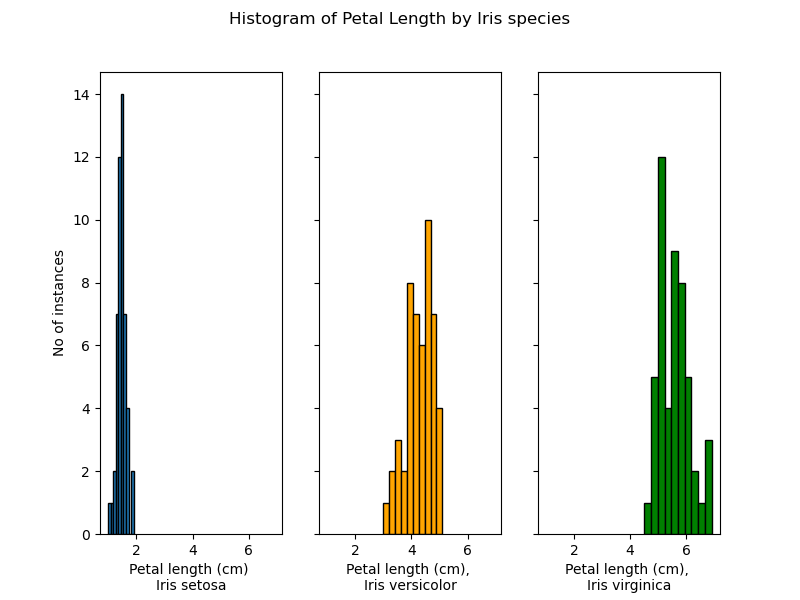
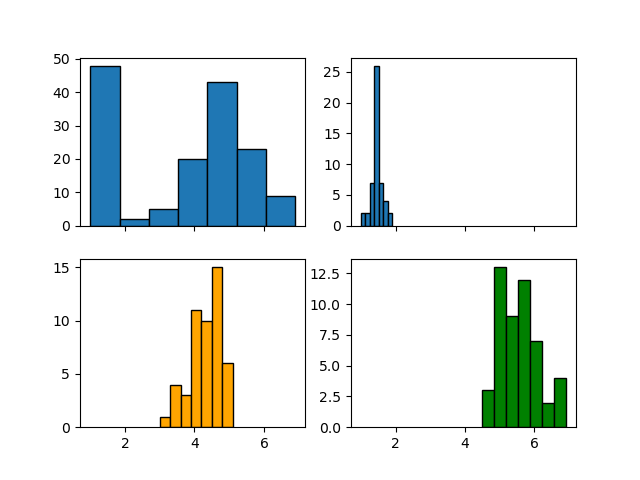
modified the readme, messed with a histogram, some analysis.py improvements

diff --git a/analysis.py b/analysis.py
@@ -9,23 +9,31 @@ iris = pd.read_csv("iris.data", header = None)
 
 # Having a look at the data set, checking that it loaded. 
 print(f'The first five rows of the data set are: \n {iris.head()}')
+print()
 
 # Add column names
 iris.columns = ['sepal_length_cm', 'sepal_width_cm', 'petal_length_cm', 'petal_width_cm', 'species']
 print(f'Checking that the column names are correct: \n {iris.head()}')
+print()
 
 # Summary of the variables and data types in the data set
+print(f'Summary of the variables and the data types in the data set.')
 print(iris.info())
 print()
 
-# Summary statistics of the data set
-print(iris.describe())
+# Looking for missing data, NaN
+print(f'Checking to see if there is any missing data or NaN. \n{iris.isna().sum()}')
 print()
+
+# Summary statistics of the data set
+print(f'Overall summary statistics for the data set. \n{iris.describe()}')
+print()
+
 
 # Summary statistics for each variable by flower species
 
 
-print(iris['species'].unique())
+print(f"The unique names in the species column are: \n {iris['species'].unique()}")
 print()
 
 setosa = iris[iris['species'] == 'Iris-setosa']
@@ -79,17 +87,18 @@ plt.savefig('sepal_width.png')
 
 
 #Histogram of Petal Length
-fig, ax = plt.subplots(1, 3, sharex= True, sharey= True, figsize = (8, 6))
-ax[0].hist(setosa['petal_length_cm'], edgecolor = 'black', alpha = 1.0, bins = 10)
-ax[1].hist(versicolor['petal_length_cm'], label = 'Iris versicolor', color = 'orange', edgecolor = 'black', alpha = 1.0, bins = 10)
-ax[2].hist(virginica['petal_length_cm'], label = 'Iris virginica', color = 'green', edgecolor = 'black', alpha = 1.0, bins = 10)
+fig, ax = plt.subplots(2, 2, sharex= True)
+ax[0,0].hist(iris['petal_length_cm'], edgecolor = 'black', bins = 7)
+ax[0, 1].hist(setosa['petal_length_cm'], edgecolor = 'black', alpha = 1.0, bins = 7)
+ax[1, 0].hist(versicolor['petal_length_cm'], label = 'Iris versicolor', color = 'orange', edgecolor = 'black', alpha = 1.0, bins = 7)
+ax[1, 1].hist(virginica['petal_length_cm'], label = 'Iris virginica', color = 'green', edgecolor = 'black', alpha = 1.0, bins = 7)
 
-ax[0].set_xlabel('Petal length (cm) \nIris setosa')
-ax[1].set_xlabel('Petal length (cm), \nIris versicolor')
-ax[2].set_xlabel('Petal length (cm), \nIris virginica')
-ax[0].set_ylabel('No of instances')
+#ax[0].set_xlabel('Petal length (cm) \nIris setosa')
+#ax[1].set_xlabel('Petal length (cm), \nIris versicolor')
+#ax[2].set_xlabel('Petal length (cm), \nIris virginica')
+#ax[0].set_ylabel('No of instances')
 
-fig.suptitle('Histogram of Petal Length by Iris species')
+#fig.suptitle('Histogram of Petal Length by Iris species')
 
 plt.savefig('petal_length.png')
 
@@ -110,4 +119,4 @@ fig.suptitle('Histogram of Petal Width by Iris species')
 plt.savefig('petal_width.png')
 
 
-plt.hist()
+#plt.hist()

diff --git a/README.md b/README.md
@@ -1,4 +1,4 @@
-# pands-project
+# pands-project 
 
 This is my analysis of the Fisher's Iris data set for the programming and scripting module.
 
@@ -20,32 +20,33 @@ README.md
 
 # Summary of the data set
 
-## History of the Data Set
 In 1928 Edgar Anderson published his paper entitled ['The Problem of Species in the Northern Blue Flags, _Iris versicolor_ and _Iris virginica_'](https://www.biodiversitylibrary.org/page/15997721). Anderson was a evolutionary biologist interested in answering two questions namely, what are species and how have they originated? Between 1923 and 1928 he and his team studied _Iris versicolor_, at a number of different sites from Ontario in Canada to Alabama in the United States, by measuring a number of different iris characteristics. Surprisingly his study found that there were actually two different iris species present, _Iris versicolor_ and _Iris virginia_ and that it was possible to differentiate between them by geographic location. 
 
-The data set is also known as Fisher's Iris Data set after the statistician and biologist, Ronald Fisher. The data measurements for _Isis setosa_ and _Iris versicolor_ were collected by Anderson from the same colony of plants in the Gaspé Peninsula, Quebec in 1935. According to [Unwin and Kleinman](https://www.jstor.org/stable/4331526?seq=13) the _Iris virginica_ data samples were from Anderson's original research and were collected in Camden, Tennessee. Fisher analysed the data and in 1936 published his results in the Annals of Eugenics [The Use of Multiple Measurements in Taxonomic Problems](https://onlinelibrary.wiley.com/doi/epdf/10.1111/j.1469-1809.1936.tb02137.x). He used a statistical method, linear discriminant analysis to attempt to distinguish the different iris species from each other. He found that _Iris setosa_ was easily distinguishable from the other two iris species using this method. 
+The data set is commonly known as Fisher's Iris Data set after the statistician and biologist, Ronald Fisher. The data measurements for _Isis setosa_ and _Iris versicolor_ were collected by Anderson from the same colony of plants in the Gaspé Peninsula, Quebec in 1935. According to [Unwin and Kleinman](https://www.jstor.org/stable/4331526?seq=13) the _Iris virginica_ data samples were from Anderson's original research and were collected in Camden, Tennessee. Fisher collated and analysed the data and in 1936 published his results in the Annals of Eugenics [The Use of Multiple Measurements in Taxonomic Problems](https://onlinelibrary.wiley.com/doi/epdf/10.1111/j.1469-1809.1936.tb02137.x). He used a statistical method, linear discriminant analysis to attempt to distinguish the different iris species from each other. He found that _Iris setosa_ was easily distinguishable from the other two iris species using this method. 
 
-## What's in the data set?
+Fisher's data set can be seen in his published paper but, in our computer age, the data set is available to download at [UCI Maching Learning Repository](https://archive.ics.uci.edu/dataset/53/iris). The data set is very widely used with currently over 700,000 views of the data set on the UCI website.
 
-The data set is a small data set with 150 rows and five columns with each row corresponding to a different flower sample. There are three different iris species, _Iris setosa_, _Iris versicolor_ and _Iris virginica_ with 50 samples for each species. 
+Analysis.txt is the output of analysis.py provides the infomation I here to summarise the data set. IMPORVE
 
-
-![Iris species](https://s3.amazonaws.com/assets.datacamp.com/blog_assets/Machine+Learning+R/iris-machinelearning.png)
-
-
-Four measurements (variables) were taken for each flower examined:
-* sepal length
-* sepal width
-* petal length
-* petal width
-
-https://www.fs.usda.gov/wildflowers/beauty/iris/images/flower/blueflagiris_flower_lg.jpg
-
-Each iris has three true petals and three sepals. The three petals are upright and are also know as standards. Sepals are a modified leaf and are sometimes known as falls. This diagram from nicely illustrates the petals and the sepals. 
-
-![Sepals and petals](https://www.fs.usda.gov/wildflowers/beauty/iris/images/flower/blueflagiris_flower_lg.jpg)
+It is a small data set with 150 rows and five columns with each row corresponding to a different flower sample. There are three different iris species, _Iris setosa_, _Iris versicolor_ and _Iris virginica_ with 50 samples for each species. There is no data missing from any of the columns.
 
 ![iris](https://miro.medium.com/v2/resize:fit:1400/format:webp/1*YYiQed4kj_EZ2qfg_imDWA.png)
 
-The data set is available at [UCI Maching Learning Repository](https://archive.ics.uci.edu/dataset/53/iris). The data set is very widely used with over 700,000 views of the data set on the UCI website. Who would have thought that nearly one hundred years later Anderson's data would be used by thousands of students worldwide who are learning statistics, data science or machine learning? 
+![Iris species](https://s3.amazonaws.com/assets.datacamp.com/blog_assets/Machine+Learning+R/iris-machinelearning.png)
+
+Four measurements (or variables) were taken for each flower examined:
+* sepal length in cm
+* sepal width in cm
+* petal length in cm
+* petal width in cm
+
+Each iris has three true petals and three sepals. The three petals are upright and are also know as standards. Sepals are a modified leaf and are sometimes called falls. Sepals are usually green in colour and its function is to protect the developing flower bud. When the flower has bloomed the iris' sepal is described as "the landing pad for bumblebees" by the [US Forest Service](https://www.fs.usda.gov/wildflowers/beauty/iris/flower.shtml). This diagram from nicely illustrates the petals and the sepals. 
+
+![Petals and sepals](https://www.fs.usda.gov/wildflowers/beauty/iris/images/flower/blueflagiris_flower_lg.jpg)
+
+https://www.integratedots.com/wp-content/uploads/2019/06/iris_petal-sepal-e1560211020463.png
+
+The 
+
+ Who would have thought that nearly one hundred years later Anderson's data would be used by thousands of students worldwide who are learning statistics, data science or machine learning? https://www.sciencedirect.com/science/article/pii/S1877050919320836
 
